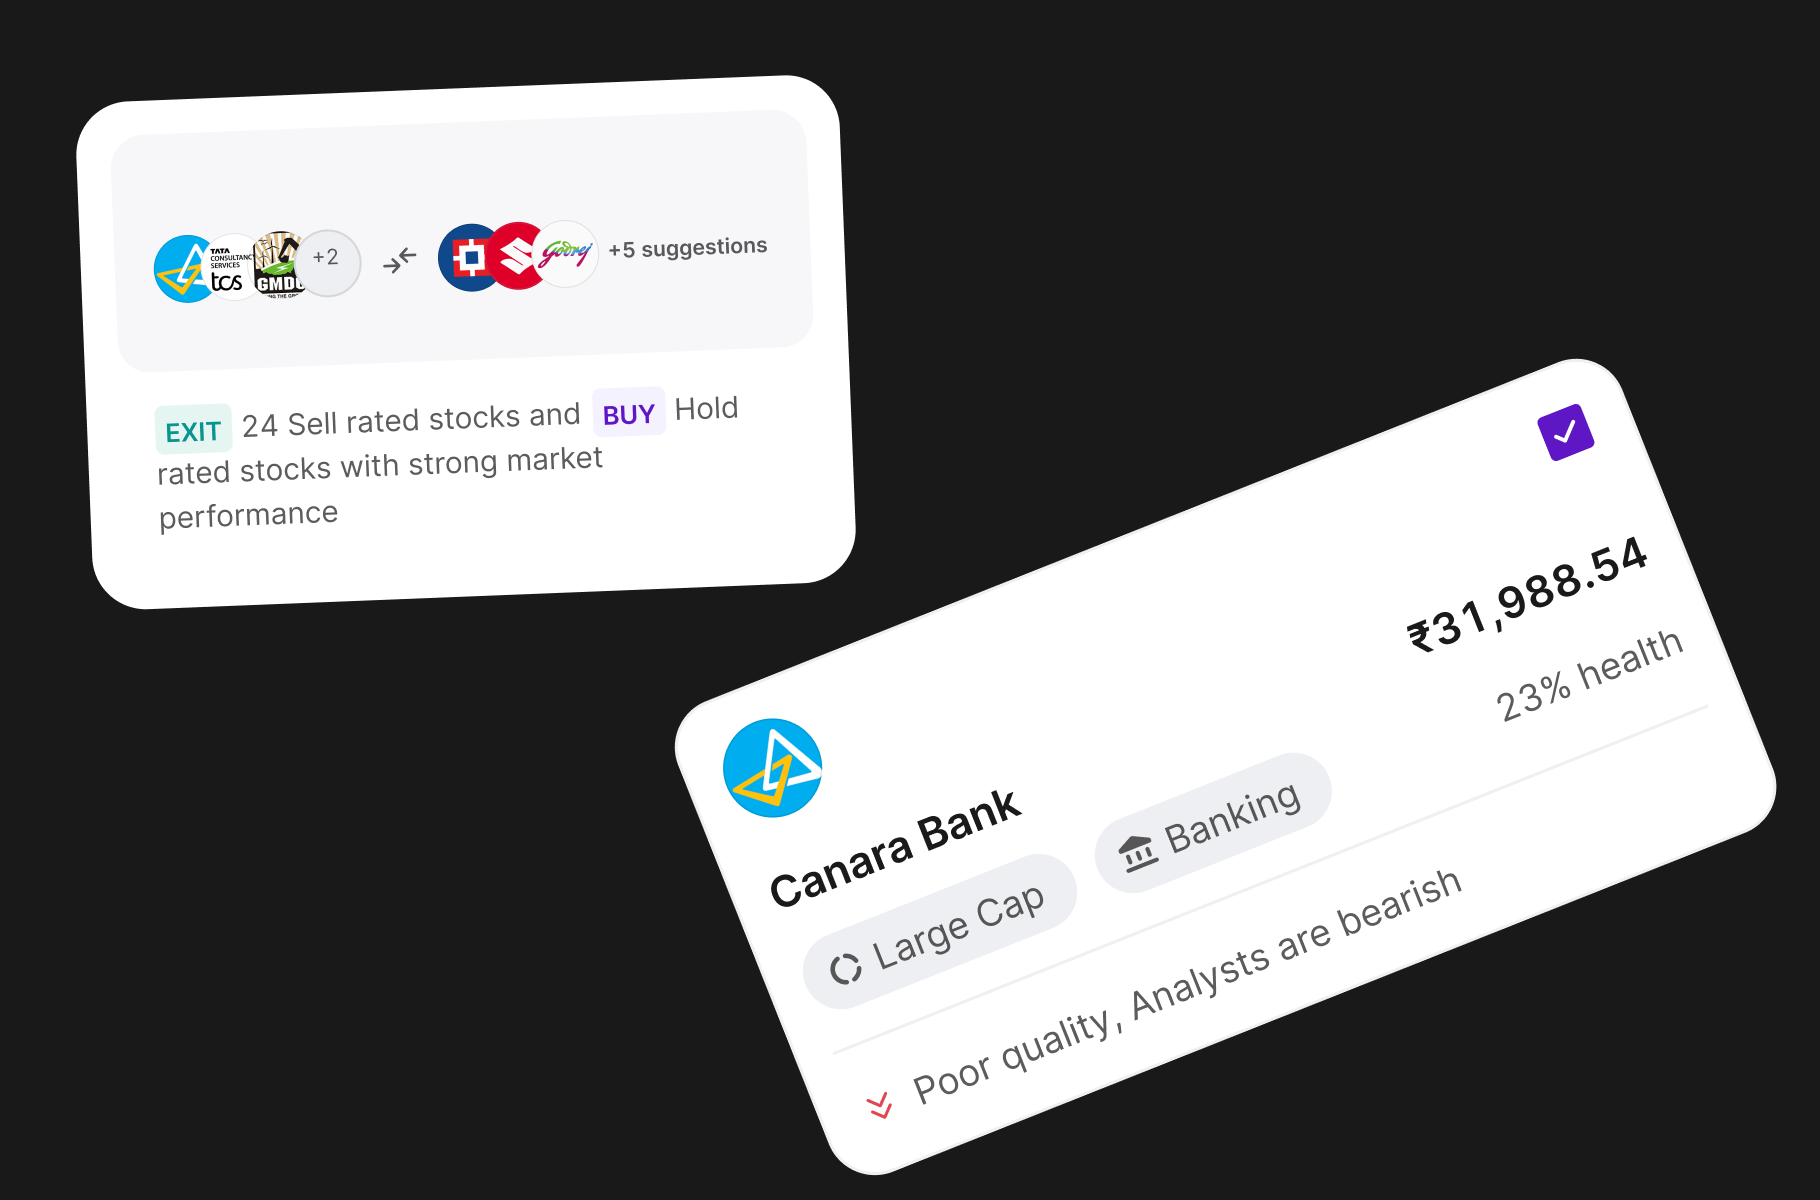
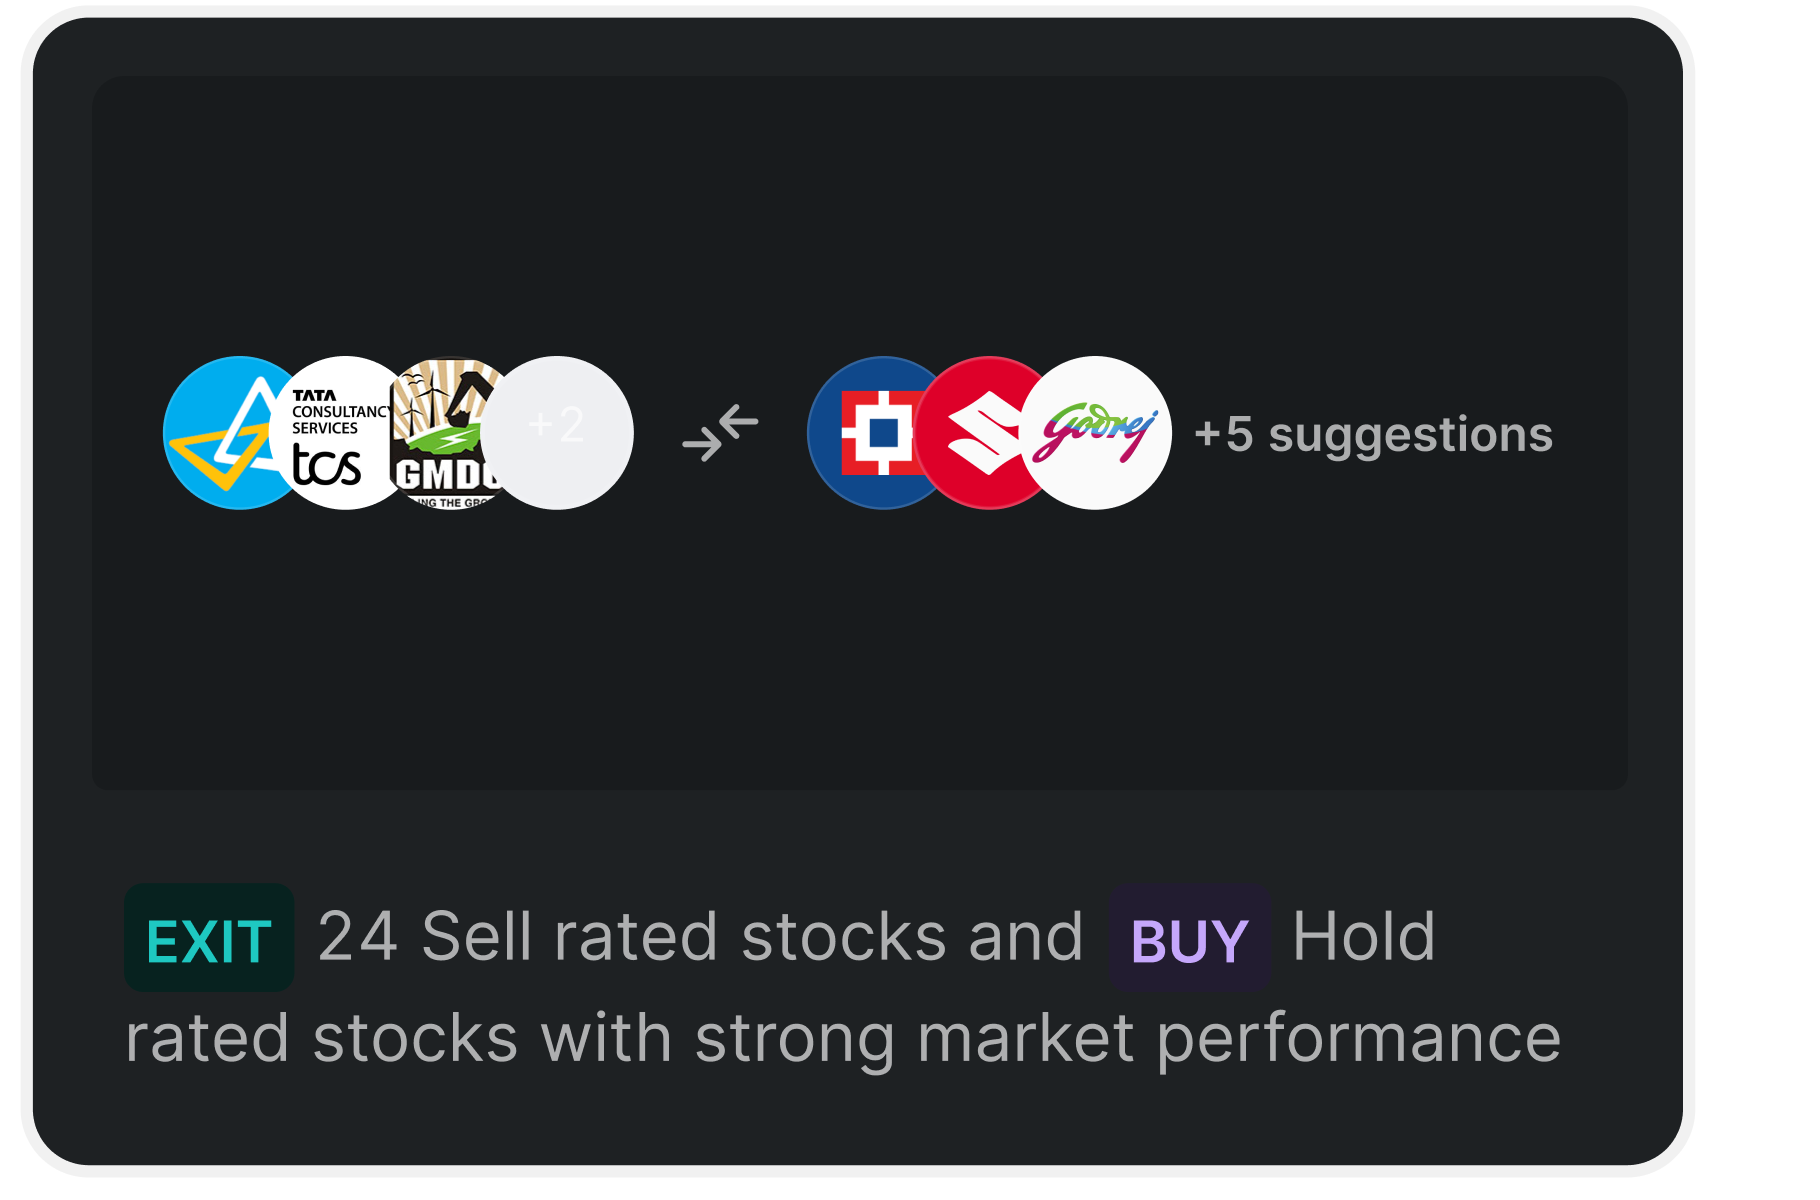
Use the dark art in dark mode again
The re-exported dark variants are 1820x1200 with alpha, matching their
light counterparts, so both reasons for sharing one file are gone: the
ratio no longer differs between themes and the backgrounds are no
longer baked in.

Includes the refreshed exports for all eight files.

diff --git a/src/config/projectGroups.ts b/src/config/projectGroups.ts
@@ -66,7 +66,7 @@ export const projectGroups: ProjectGroup[] = [
         id: 'order-form',
         caption:
           '*Order form* revamp gave 10% order placement uplift along with adding pro-trader order types.',
-        image: { dark: '/projects/Orderform-light.png', light: '/projects/Orderform-light.png' },
+        image: { dark: '/projects/Orderform-dark.png', light: '/projects/Orderform-light.png' },
         size: { width: 1820, height: 1200 },
         highlights: {
           title: 'Order form revamp Highlights',
@@ -128,14 +128,14 @@ export const projectGroups: ProjectGroup[] = [
         id: 'trading-tools',
         caption:
           'About 30% of users who trade are using one of the 4 *Tools* to create, analyse and implement trading strategies',
-        image: { dark: '/projects/Tradingtools-light.png', light: '/projects/Tradingtools-light.png' },
+        image: { dark: '/projects/Tradingtools-dark.png', light: '/projects/Tradingtools-light.png' },
         size: { width: 1820, height: 1200 },
       },
       {
         id: 'portfolio-optimiser',
         caption:
           'Take a look at *Portfolio Optimizer*. One of the first brokers who identify whats wrong and fix portfolio in a seamless flow',
-        image: { dark: '/projects/Optimiser-light.png', light: '/projects/Optimiser-light.png' },
+        image: { dark: '/projects/Optimiser-dark.png', light: '/projects/Optimiser-light.png' },
         size: { width: 1820, height: 1200 },
       },
     ],
@@ -150,7 +150,7 @@ export const projectGroups: ProjectGroup[] = [
         id: 'care-revamp',
         caption:
           '*Care revamp* reduced 30% tickets on self-serve features and simplified the ticket creation experience',
-        image: { dark: '/projects/rzp-care-light.png', light: '/projects/rzp-care-light.png' },
+        image: { dark: '/projects/rzp-care-dark.png', light: '/projects/rzp-care-light.png' },
         size: { width: 1820, height: 1200 },
       },
     ],
